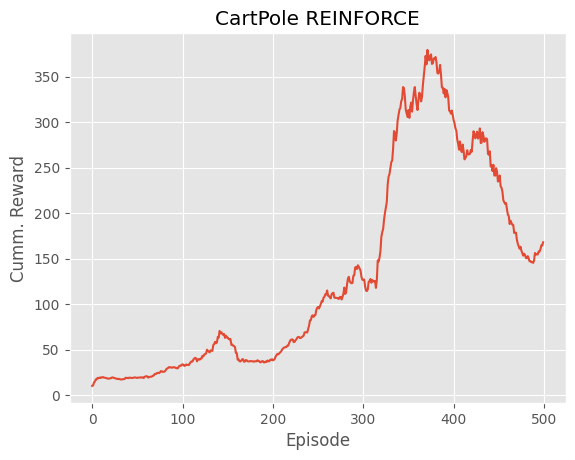
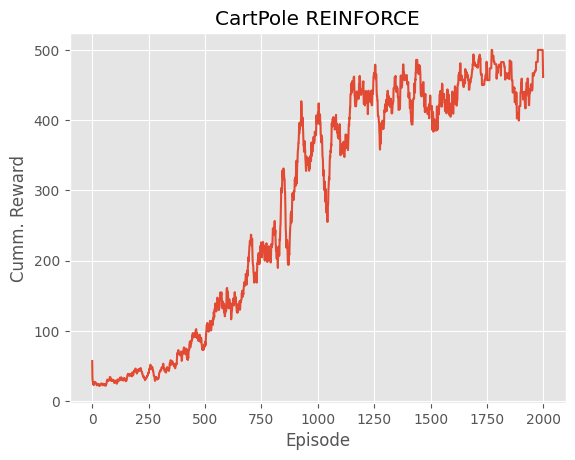
fix: fixed reinforce impl

diff --git a/src/policy_methods/reinforce.py b/src/policy_methods/reinforce.py
@@ -20,7 +20,7 @@ class PolicyGradient(nn.Module):
         gamma: float = 0.99,
         device: str = 'cpu',
         learning_rate: float = 0.01,
-        max_grad: float = 1.5, 
+        max_grad: float = 1.0, 
         *args,
         **kwargs
     ) -> None:
@@ -45,7 +45,7 @@ class PolicyGradient(nn.Module):
             
         self.layers.append(nn.Linear(hidden_layers[-1], environ.action_space.n))
         
-        self.optimizer = torch.optim.Adam(self.parameters(), lr=learning_rate)
+        self.optimizer = torch.optim.AdamW(self.parameters(), lr=learning_rate)
     
     def forward(
         self, 
@@ -85,39 +85,35 @@ class PolicyGradient(nn.Module):
     ) -> torch.tensor:
         logits = self(states)
         distribution = Categorical(logits=logits)
-        return distribution.log_prob(actions)
-    
-    def get_probability(self, state, action):
-        state = torch.as_tensor(state, dtype=torch.float32)
-        with torch.no_grad():
-            action_logits = self(state)
-
-        probabilities = torch.functional.F.softmax(input=action_logits, dim=-1).tolist()
-
-        return probabilities[action]
+        return distribution.log_prob(actions.squeeze())
     
     def update_step(
         self, 
         states: list,
         actions: list,
         returns: list
-    ) -> None:
+    ) -> float:
         
         states_torch = torch.as_tensor(np.array(states), dtype=torch.float32, device=self.device).view(-1, self.input_shape)
-        actions_torch = torch.as_tensor(actions, dtype=torch.int64, device=self.device).view(-1, 1)
-        returns_torch = torch.as_tensor(np.array(returns), dtype=torch.float32, device=self.device).view(-1, 1)
+        actions_torch = torch.as_tensor(np.array(actions), dtype=torch.int32, device=self.device).view(-1, 1)
+        if isinstance(returns, list):
+            returns_torch = torch.as_tensor(np.array(returns), dtype=torch.float32, device=self.device).view(-1, 1)
+        else:
+            returns_torch = returns
         
         action_probs = self.get_action_probs(states_torch, actions_torch)
-        loss = -(action_probs * returns_torch).sum()
+        loss = -(action_probs * returns_torch.view(-1, 1)).sum()
         
         self.optimizer.zero_grad()
         loss.backward()
-        torch.nn.utils.clip_grad_norm_(self.parameters(), max_norm=self.max_grad)
+        # torch.nn.utils.clip_grad.clip_grad_norm_(self.parameters(), max_norm=self.max_grad)
         self.optimizer.step()
+        
+        return loss.item()
         
     def train(
         self,
-        num_steps: int = 200,
+        num_eps: int = 200,
         save=False
     ) -> list:
         average_rewards = RollingAverage(20)
@@ -131,27 +127,27 @@ class PolicyGradient(nn.Module):
         def reset_buffer():
             return {'states': [], 'actions': [], 'rewards' : []}
         
-        for step in range(num_steps):
+        for step in range(num_eps):
             obs, _ = self.env.reset()
             done = False
+            ep_reward = 0 
             while not done:
                 action = self.select_action(obs)
                 obs_prime, reward, terminated, truncated, _ = self.env.step(action)     
                 update_buffer(obs, action, reward)
                 
+                ep_reward += reward
                 obs = obs_prime
                 done = terminated or truncated
         
-            average_rewards.update(float(np.sum(buffer['rewards'])))
-            print(f'Episode: {step+1} | Avg Reward: {average_rewards.get_average:.4f}', end='\r')
+            average_rewards.update(ep_reward)
             
             returns = self.get_return(buffer['rewards'])
-            
-            self.update_step(buffer['states'], buffer['actions'], returns)
-            
+            loss = self.update_step(buffer['states'], buffer['actions'], returns)
+            print(f'Episode: {step+1} | Avg Reward: {average_rewards.get_average:.1f} | Loss: {loss:.3f}', end='\r')
             buffer = reset_buffer()
         
         if save:
-            torch.save(self.state_dict(), f'../models/{self._agent_name}_{self.game_name.upper()}_{datetime.now().strftime('%Y-%m-%d_%H-%M-%S')}')
+            torch.save(self.state_dict(), f'models/{self._agent_name}_{self.game_name.upper()}_{datetime.now().strftime('%Y-%m-%d_%H-%M-%S')}')
         
         return average_rewards

diff --git a/README.md b/README.md
@@ -10,6 +10,3 @@ Training Curve for Q Actor-Critic:
 
 ![Sample training loop example](images/ac.png)
 
-
-
-The training is extremely finicky; there is likely some small mistake with the implementation (TODO).
